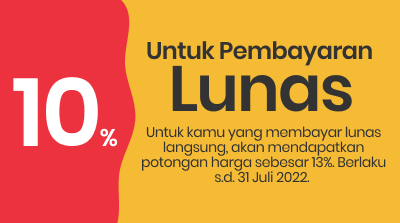
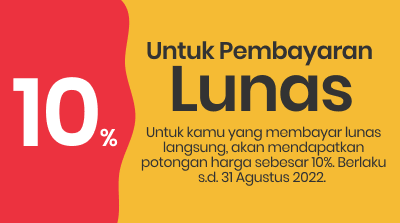
Update gambar

Changed region(s): [[0.36, 0.6996, 0.87, 0.8341], [0.87, 0.6996, 0.99, 0.7534]]

diff --git a/src/components/Profile/index.js b/src/components/Profile/index.js
@@ -43,7 +43,7 @@ const Profile = () => {
                 </ProfileDetails>
                 <Subtitle>
                     Bimbel Ganesha Operation merupakan lembaga bimbingan belajar terbaik dan terbesar di Indonesia. 
-                    Berdiri sejak 2 Mei 1984 di Kota Bandung, saat ini Ganesha Operation telah tersebar di 249 kota di Indonesia, mulai dari Aceh hingga Ambon.
+                    Berdiri sejak 2 Mei 1984 di Kota Bandung, saat ini Ganesha Operation telah tersebar di 245 kota di Indonesia, mulai dari Aceh hingga Ambon.
                 </Subtitle>
                 <SocialMedia>
                     <SocialMediaWrap>

diff --git a/src/components/Diskon/Diskon.js b/src/components/Diskon/Diskon.js
@@ -31,13 +31,13 @@ function Diskon() {
             />
             <Diskonitem
               src='images/Diskon/diskon5.png'
-              text='Diskon ini berlaku hanya di bulan Juni 2022.'
+              text='Diskon ini berlaku sepanjang Tahun Pelajaran.'
               label='Diskon'
               path='/diskonlengkap'
             />
             <Diskonitem
               src='images/Diskon/diskon4.png'
-              text='Diskon ini berlaku hanya di bulan Juni 2022.'
+              text='Diskon ini berlaku s.d 31 Agustus 2022.'
               label='Diskon'
               path='/diskonlengkap'
             />

diff --git a/src/components/Navbar/NavbarStyles.js b/src/components/Navbar/NavbarStyles.js
@@ -102,7 +102,7 @@ export const NavLinks = styled(Link)`
 	height: 100%;
 
 	&:hover {
-		border-bottom: 2px solid #ec421d;
+		border-bottom: 2px solid #fff;
 	}
 
 	@media screen and (max-width: 960px) {
@@ -140,7 +140,7 @@ export const Navigate = styled(Link)`
 	height: 100%;
 
 	&:hover {
-		border-bottom: 2px solid #ec421d;
+		border-bottom: 2px solid #fff;
 	}
 
 	@media screen and (max-width: 960px) {
